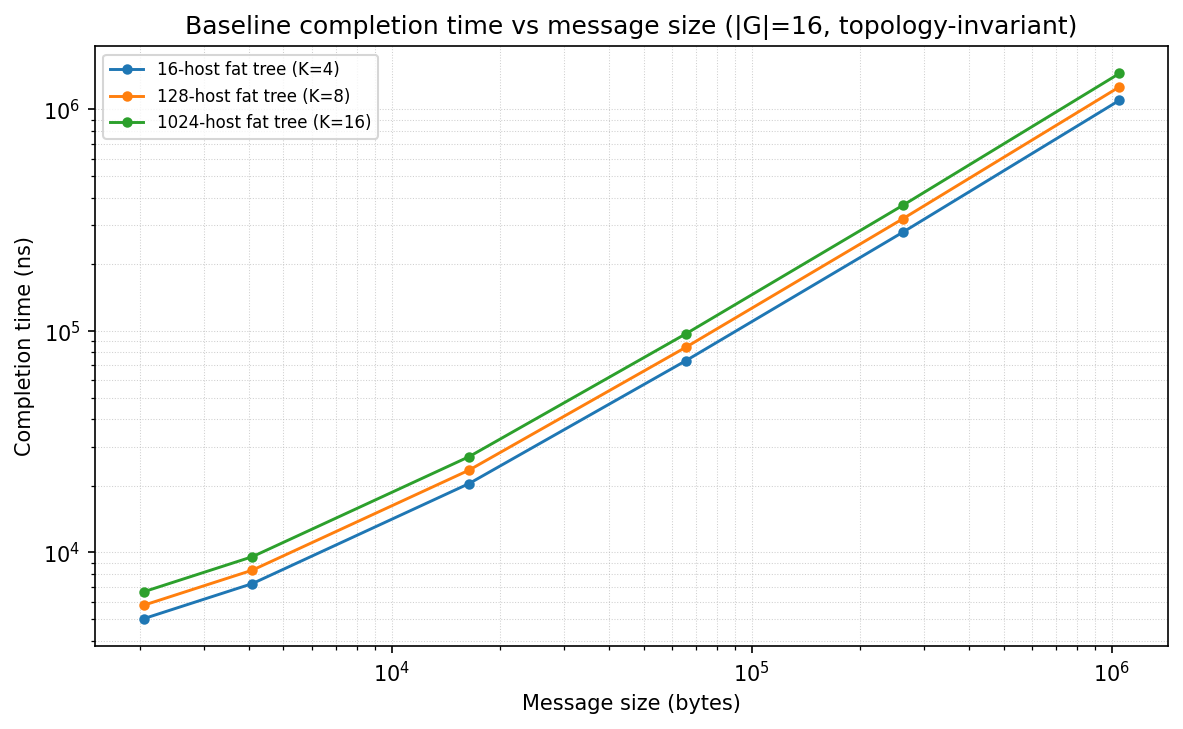
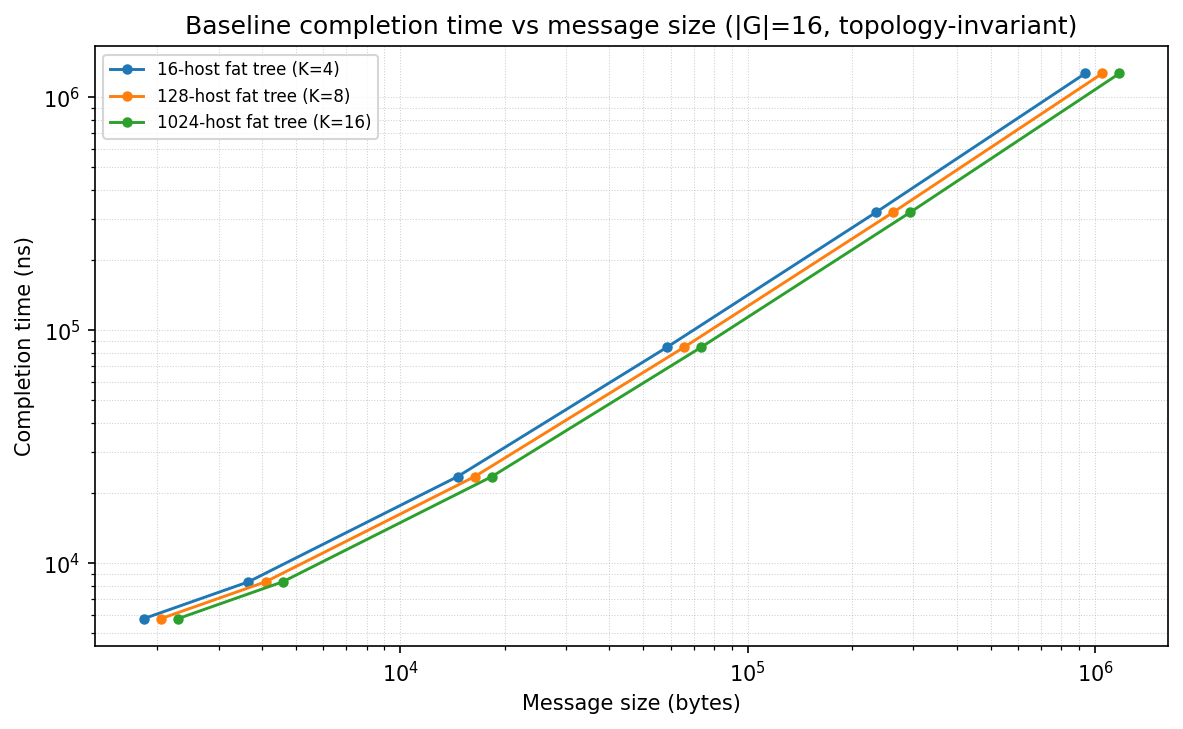
plots: baseline msgsize overlay uses x-offset (not y) to separate topologies

diff --git a/sim/htsim-backend/plotting/plot_mtu_sweep.py b/sim/htsim-backend/plotting/plot_mtu_sweep.py
@@ -63,12 +63,12 @@ def main():
         "--overlay-topologies", action="store_true",
         help="Single panel, one line per topology at the fixed "
              "--group-size, to show topology-size invariance. Applies "
-             "a small geometric y-offset per topology so the otherwise "
+             "a small geometric x-offset per topology so the otherwise "
              "coincident lines are distinguishable.",
     )
     p.add_argument(
-        "--y-offset", type=float, default=1.15,
-        help="Geometric y-offset factor between adjacent topologies "
+        "--x-offset", type=float, default=1.12,
+        help="Geometric x-offset factor between adjacent topologies "
              "in --overlay-topologies mode (purely cosmetic).",
     )
     args = p.parse_args()
@@ -88,17 +88,18 @@ def main():
         fig, ax = plt.subplots(figsize=(8, 5))
         nt = len(nodes_set)
         for i, nodes in enumerate(nodes_set):
-            off = args.y_offset ** (i - (nt - 1) / 2.0)
+            off = args.x_offset ** (i - (nt - 1) / 2.0)
             for mode in args.modes:
                 payloads = sorted({k[3] for k in buckets if k[0] == nodes
                                    and k[1] == g and k[2] == mode})
                 if not payloads:
                     continue
-                ys = [med(buckets[(nodes, g, mode, pl)]) * off
+                xs = [pl * off for pl in payloads]
+                ys = [med(buckets[(nodes, g, mode, pl)])
                       for pl in payloads]
                 ls = "-" if mode == "baseline" else "--"
                 K = int(round((nodes * 4) ** (1.0 / 3.0)))
-                ax.plot(payloads, ys, marker="o", markersize=4,
+                ax.plot(xs, ys, marker="o", markersize=4,
                         linewidth=1.4, linestyle=ls,
                         label=f"{nodes}-host fat tree (K={K})")
         ax.set_xscale("log")
